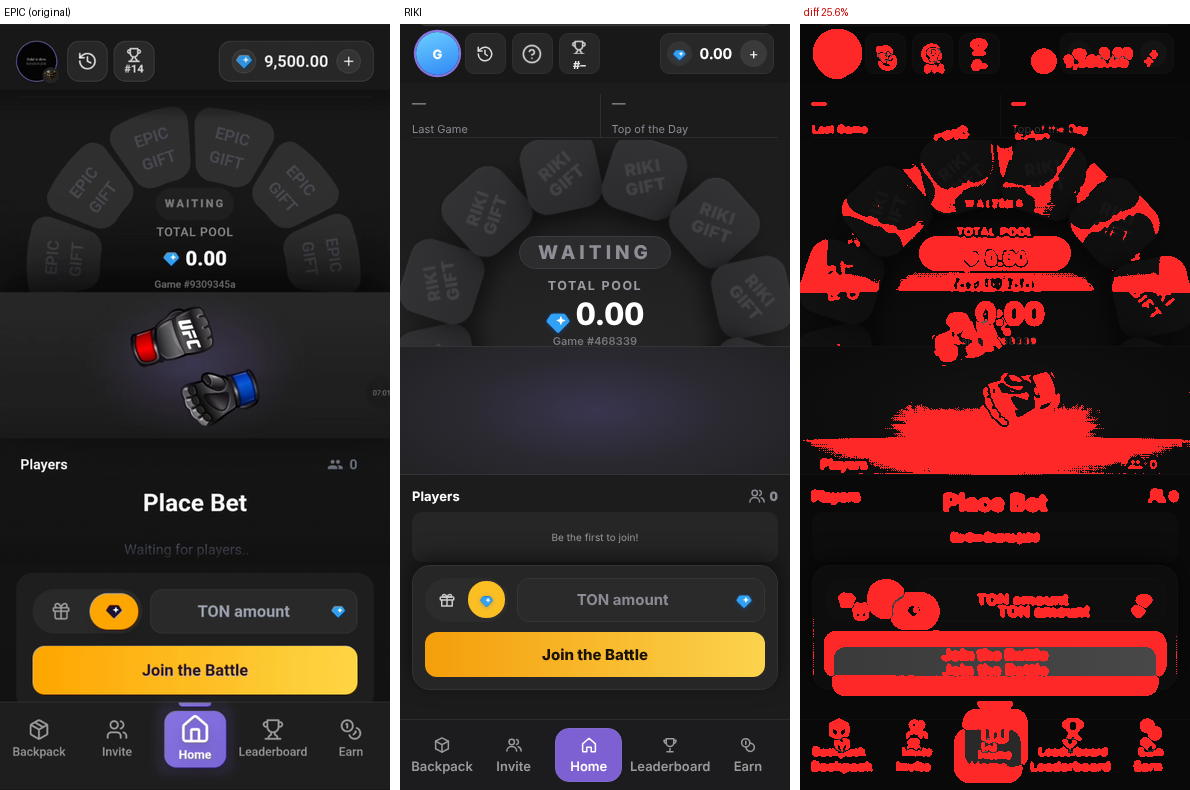
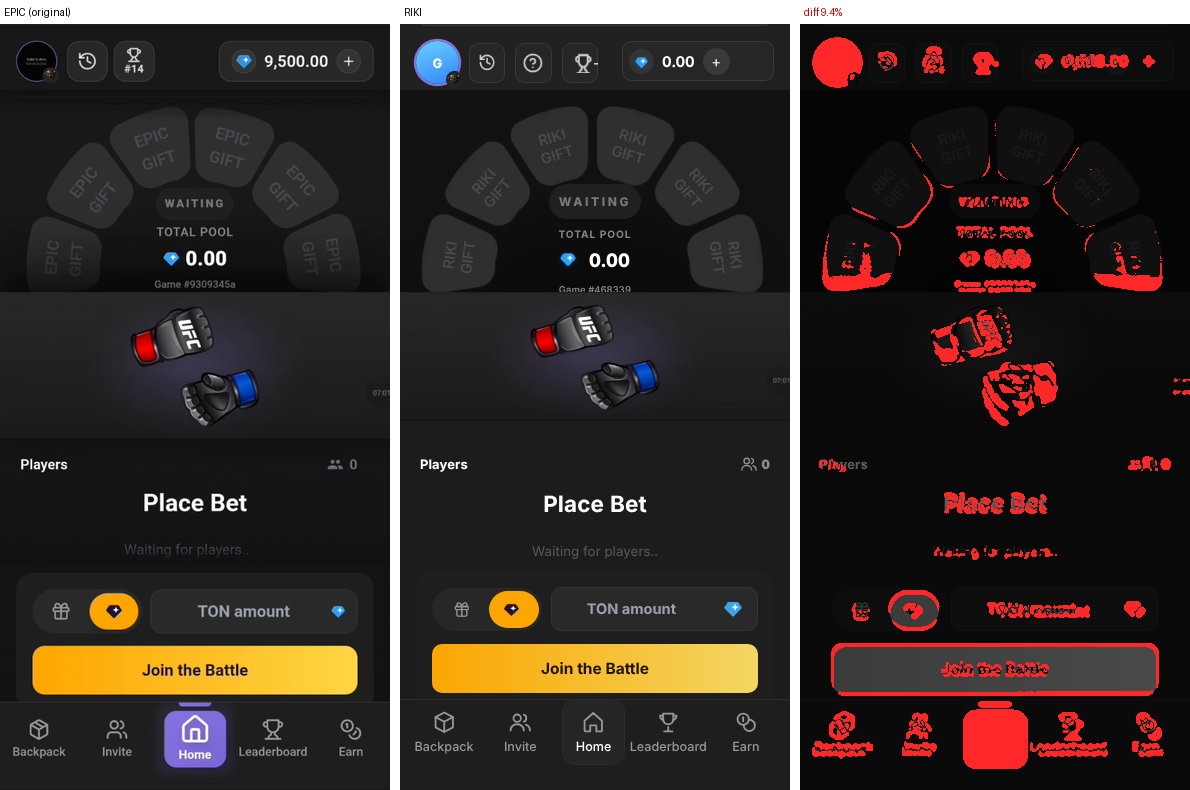
PvP bo'sh holati 1:1 (frames2/18): g'ildirak R134.2/11 katak, kafel PNG, WAITING pill, qo'lqop foni PNG, Place Bet, dock o'lchamlari; nav/header balandliklari

diff --git a/css/epic-1to1.css b/css/epic-1to1.css
@@ -72,3 +72,46 @@ nav button[data-go="home"]{flex:0 0 62.3px!important;background:#252525!importan
 #mines .bb3 .bbm button{flex:1 1 auto!important;width:auto!important}
 #mines .bb3 .bbm button[data-m="ton"]{flex:0 0 35.3px!important}
 #mines .bb3 .bbi input{background:none!important;border:0!important;box-shadow:none!important;outline:0;padding:0!important;width:100%}
+/* --- PvP (frames2/18_pvp_place_bet_empty; K=390/588) --- */
+#pvp.on{padding:0 0 0!important;display:flex!important;flex-direction:column}
+#pvp .pvst:empty,#pvp.pv-empty .pvst{display:none!important}
+#pvp .pvarc{height:202.3px!important;margin:0!important;border:0!important;background:radial-gradient(60% 55% at 50% 100%,#090909,#111111 100%)!important;overflow:hidden}
+#pvp .arcring{left:192.1px!important;top:186px!important}
+#pvp .atile{left:-40.45px!important;top:-37.45px!important;width:80.9px!important;height:74.9px!important;transform-origin:40.45px 37.45px!important;background:none!important;box-shadow:none!important;border-radius:0!important}
+#pvp .atile .tbg{position:absolute;inset:0;width:100%;height:100%}
+#pvp .atile.e .ph{position:relative;transform:none!important;color:#4a4a4c!important;font-size:14.7px!important;font-weight:600!important;letter-spacing:0!important;line-height:1.25!important;text-align:center}
+#pvp .arcc{top:94.1px!important;gap:0}
+#pvp #pvTimer{height:35.2px;min-width:77px;box-sizing:border-box;padding:0 10px!important;border-radius:17.6px!important;background:#202020!important;border:0!important;display:grid;place-items:center;color:#fff;font-size:21px!important;letter-spacing:.5px!important;font-weight:800}
+#pvp #pvTimer.wt{color:#797979!important;font-size:12px!important;letter-spacing:2.6px!important}
+#pvp .arcc small{margin-top:9.1px!important;font-size:10.2px!important;letter-spacing:.9px!important;color:#878787!important;font-weight:700!important}
+#pvp .arcc b{margin-top:8.6px!important;font-size:18.5px!important;gap:5px!important;line-height:1}
+#pvp .arcc b .gem,#pvp .arcc b .gm img{width:16.5px!important;height:16.5px!important}
+#pvp .arcc i{margin-top:11px!important;font-size:9.4px!important;color:#858585!important}
+#pvp .strip{height:146.5px!important;margin:0!important;border:0!important;background:#1a1a1a}
+#pvp.pv-empty .strip{background:url(../assets/pvp/gloves_bg.png) center/100% 100% no-repeat!important}
+#pvp.pv-empty .strip>*{display:none!important}
+#pvp .phead{margin:16px 20px 0!important;font-size:13.3px;font-weight:700}
+#pvp #pvPl{margin:0 15.9px}
+#pvp .pvempty{display:flex;flex-direction:column;align-items:center;padding-top:17px}
+#pvp .pvempty b{font-size:22.5px;font-weight:700;color:#fff}
+#pvp .pvempty small{margin-top:26px;font-size:13.3px;color:#5a5a5a}
+#pvp .pvhash{display:none!important}
+#pvp .dock{position:static!important;margin:auto 15.9px 7.3px!important;padding:16.6px 16.6px 7.3px!important;background:#1e1e1e!important;border:0!important;border-radius:16px 16px 0 0!important;box-shadow:none!important;display:flex;flex-direction:column;gap:12.6px}
+#pvp .brow{display:flex;gap:9.3px;height:44.4px;align-items:center;margin:0!important}
+#pvp .tog{width:109.4px;height:43px;border-radius:21.5px!important;background:#272727!important;padding:3px!important;display:flex;box-sizing:border-box;border:0!important}
+#pvp .tog button{flex:1;border-radius:18.5px!important;display:grid;place-items:center;background:none!important;box-shadow:none!important}
+#pvp .tog button.on{flex:0 0 49.8px;background:linear-gradient(90deg,#fba601,#ffa500)!important}
+#pvp .tog .tgi{width:19.3px}#pvp .tog .tgk{width:19.3px}
+#pvp .inp{flex:1;height:44.4px!important;border-radius:10px!important;background:#292929!important;border:1px solid #343434!important;box-sizing:border-box;padding:0 12px!important}
+#pvp .inp input{text-align:center;font-size:14.6px!important;font-weight:700;background:none!important}
+#pvp .inp input::placeholder{color:#99a1ad!important}
+#pvp #pvJoin{height:48.5px!important;margin:0!important;border-radius:10px!important;font-size:15.5px!important;font-weight:700!important}
+#pvp #pvJoin.y{background:linear-gradient(90deg,#fba601,#f3d662)!important;color:#1c1307!important;box-shadow:none!important}
+/* nav: yuqori chiziq y 677.9 (#2e2e2e), Home pill 676.6–742.9 (−1.3 px tepaga chiqadi), pastki 25 px — frames2/18, 01 */
+nav{padding:0 6px 25px!important;border-top:1px solid #2e2e2e!important;background:#1e1e1e!important}
+nav .in{margin-top:-1.3px}
+#hPill{padding-bottom:8.7px!important;background:#212121!important;box-sizing:border-box}
+#pvp .phead{margin-top:34px!important}
+#hPill{height:65.7px!important}
+.screen.dockpad.on{min-height:calc(100vh - 65.7px - 90.1px)!important}
+#pvp .dock{margin-bottom:0!important}

diff --git a/js/app.js b/js/app.js
@@ -546,7 +546,7 @@ function pvSpin(forced) {
 let pvLast = 0;
 const pvAv = p => p.photo ? `<span class="av" style="background:#393939 url('${esc(p.photo)}') center/cover"></span>` : avHTML(p.name);
 // o'yinchilar yoyning TEPA-O'RTASIDAN boshlab joylashadi (8,7,9,6,…) — chetdagilar ekrandan chiqib ketadi
-const PV_SLOT = [8, 7, 9, 6, 10, 5, 11, 4, 3, 2, 1, 0];
+const PV_SLOT = [5, 4, 6, 3, 7, 2, 8, 1, 9, 0, 10];   // 11 ta katak: tepa-o'rtadan boshlab
 function pvRender(force) {
   const now = Date.now(); const tot = pvTotal();
   $('#pvPool').textContent = fmt(tot); $('#pvGame').textContent = 'Game #' + PV.game;
@@ -557,12 +557,12 @@ function pvRender(force) {
   jb.className = 'bigbtn' + (ok ? ' y' : ''); jb.textContent = PV.phase === 'wait' ? 'Join the Battle' : PV.phase === 'spin' ? 'Spinning…' : 'Next round soon';
   if (!force && now - pvLast < 400) return; pvLast = now;
   // yoy (arc)
-  const ring = $('#pvRing'); const N = 12, R = 161; let h = '';
+  const ring = $('#pvRing'); const N = 11, R = 134.2; let h = '';   // frames2/18: markaz (192.1, 251.7), R 134.2, qadam 32.2° (≈360/11)
   for (let i = 0; i < N; i++) {
-    const a = -90 + (i - (N - 1) / 2) * 30; const p = PV.pl[PV_SLOT.indexOf(i)];
+    const a = -90 + (i - (N - 1) / 2) * (360 / N) - 180 / N; const p = PV.pl[PV_SLOT.indexOf(i)];   // frames2/18: tepada oraliq (±16.1°)
     const tr = `transform:rotate(${a + 90}deg) translateY(-${R}px)`;
     const gf = p && p.gifts && p.gifts.length ? [...p.gifts].sort((x, y) => (y.p || y.v || 0) - (x.p || x.v || 0))[0] : null;
-    h += p ? `<div class="atile f" style="${tr};--c:${p.c}">${gf ? GI(gf) : GEM}<b>${fmt(p.amt)}</b></div>` : `<div class="atile e" style="${tr}"><span class="ph">${esc((CFG.BRAND || 'RIKI').toUpperCase())}<br>GIFT</span></div>`;
+    h += p ? `<div class="atile f" style="${tr};--c:${p.c}">${gf ? GI(gf) : GEM}<b>${fmt(p.amt)}</b></div>` : `<div class="atile e" style="${tr}"><img class="tbg" src="assets/pvp/tile_empty.png" alt=""><span class="ph">${esc((CFG.BRAND || 'RIKI').toUpperCase())}<br>GIFT</span></div>`;
   }
   ring.innerHTML = h; ring.classList.toggle('idle', PV.phase === 'wait');
   if (PV.phase === 'wait') {
@@ -570,7 +570,8 @@ function pvRender(force) {
     tr.innerHTML = PV.pl.length ? PV.pl.map(p => `<div class="scard" style="--c:${p.c}">${pvAv(p)}<b>${esc(p.name)}</b><em>${(p.amt / tot * 100).toFixed(1)}%</em></div>`).join('') : '';
   }
   $('#pvCnt').textContent = PV.pl.length;
-  $('#pvPl').innerHTML = [...PV.pl].sort((a, b) => b.amt - a.amt).map(p => `<div class="vrow ${PV.winner === p && PV.phase === 'done' ? 'w' : ''}" style="--c:${p.c}">${pvAv(p)}<div><b>${esc(p.name)}${p.bot ? ' <span class="bt">BOT</span>' : ''}${p.me ? ' <span class="youb">YOU</span>' : ''}</b><small>${g$(p.amt)}</small></div><span class="pc2">${(p.amt / (tot || 1) * 100).toFixed(1)}%</span></div>`).join('') || '<div class="empty">Be the first to join!</div>';
+  $('#pvPl').innerHTML = [...PV.pl].sort((a, b) => b.amt - a.amt).map(p => `<div class="vrow ${PV.winner === p && PV.phase === 'done' ? 'w' : ''}" style="--c:${p.c}">${pvAv(p)}<div><b>${esc(p.name)}${p.bot ? ' <span class="bt">BOT</span>' : ''}${p.me ? ' <span class="youb">YOU</span>' : ''}</b><small>${g$(p.amt)}</small></div><span class="pc2">${(p.amt / (tot || 1) * 100).toFixed(1)}%</span></div>`).join('') || '<div class="pvempty"><b>Place Bet</b><small>Waiting for players..</small></div>';   // frames2/18
+  $('#pvp').classList.toggle('pv-empty', !PV.pl.length);
 }
 function pvHub() {
   const tot = pvTotal();

diff --git a/index.html b/index.html
@@ -120,7 +120,7 @@
   <div class="phead"><span style="color:#fff">Players</span><span><span data-icon="users"></span><b id="pvCnt">0</b></span></div>
   <div id="pvPl"></div>
   <div class="dock">
-    <div class="brow"><div class="tog y" data-tog="pv"><button data-m="gift" data-icon="gift"></button><button data-m="coin" class="on"><span class="gm"></span></button></div><div class="inp"><input id="pvAmt" type="number" inputmode="decimal" placeholder="TON amount" step="0.01"><span class="gm"></span></div></div>
+    <div class="brow"><div class="tog y" data-tog="pv"><button data-m="gift"><img class="tgi" src="assets/ui/ic_gift_tog.png" alt=""></button><button data-m="coin" class="on"><img class="tgk" src="assets/pvp/ic_gem_dark.png" alt=""></button></div><div class="inp"><input id="pvAmt" type="number" inputmode="decimal" placeholder="TON amount" step="0.01"><img class="tgs" src="assets/ui/ic_gem_sm.png" alt=""></div></div>
     <button class="bigbtn" id="pvJoin">Join the Battle</button>
   </div>
 </section>
